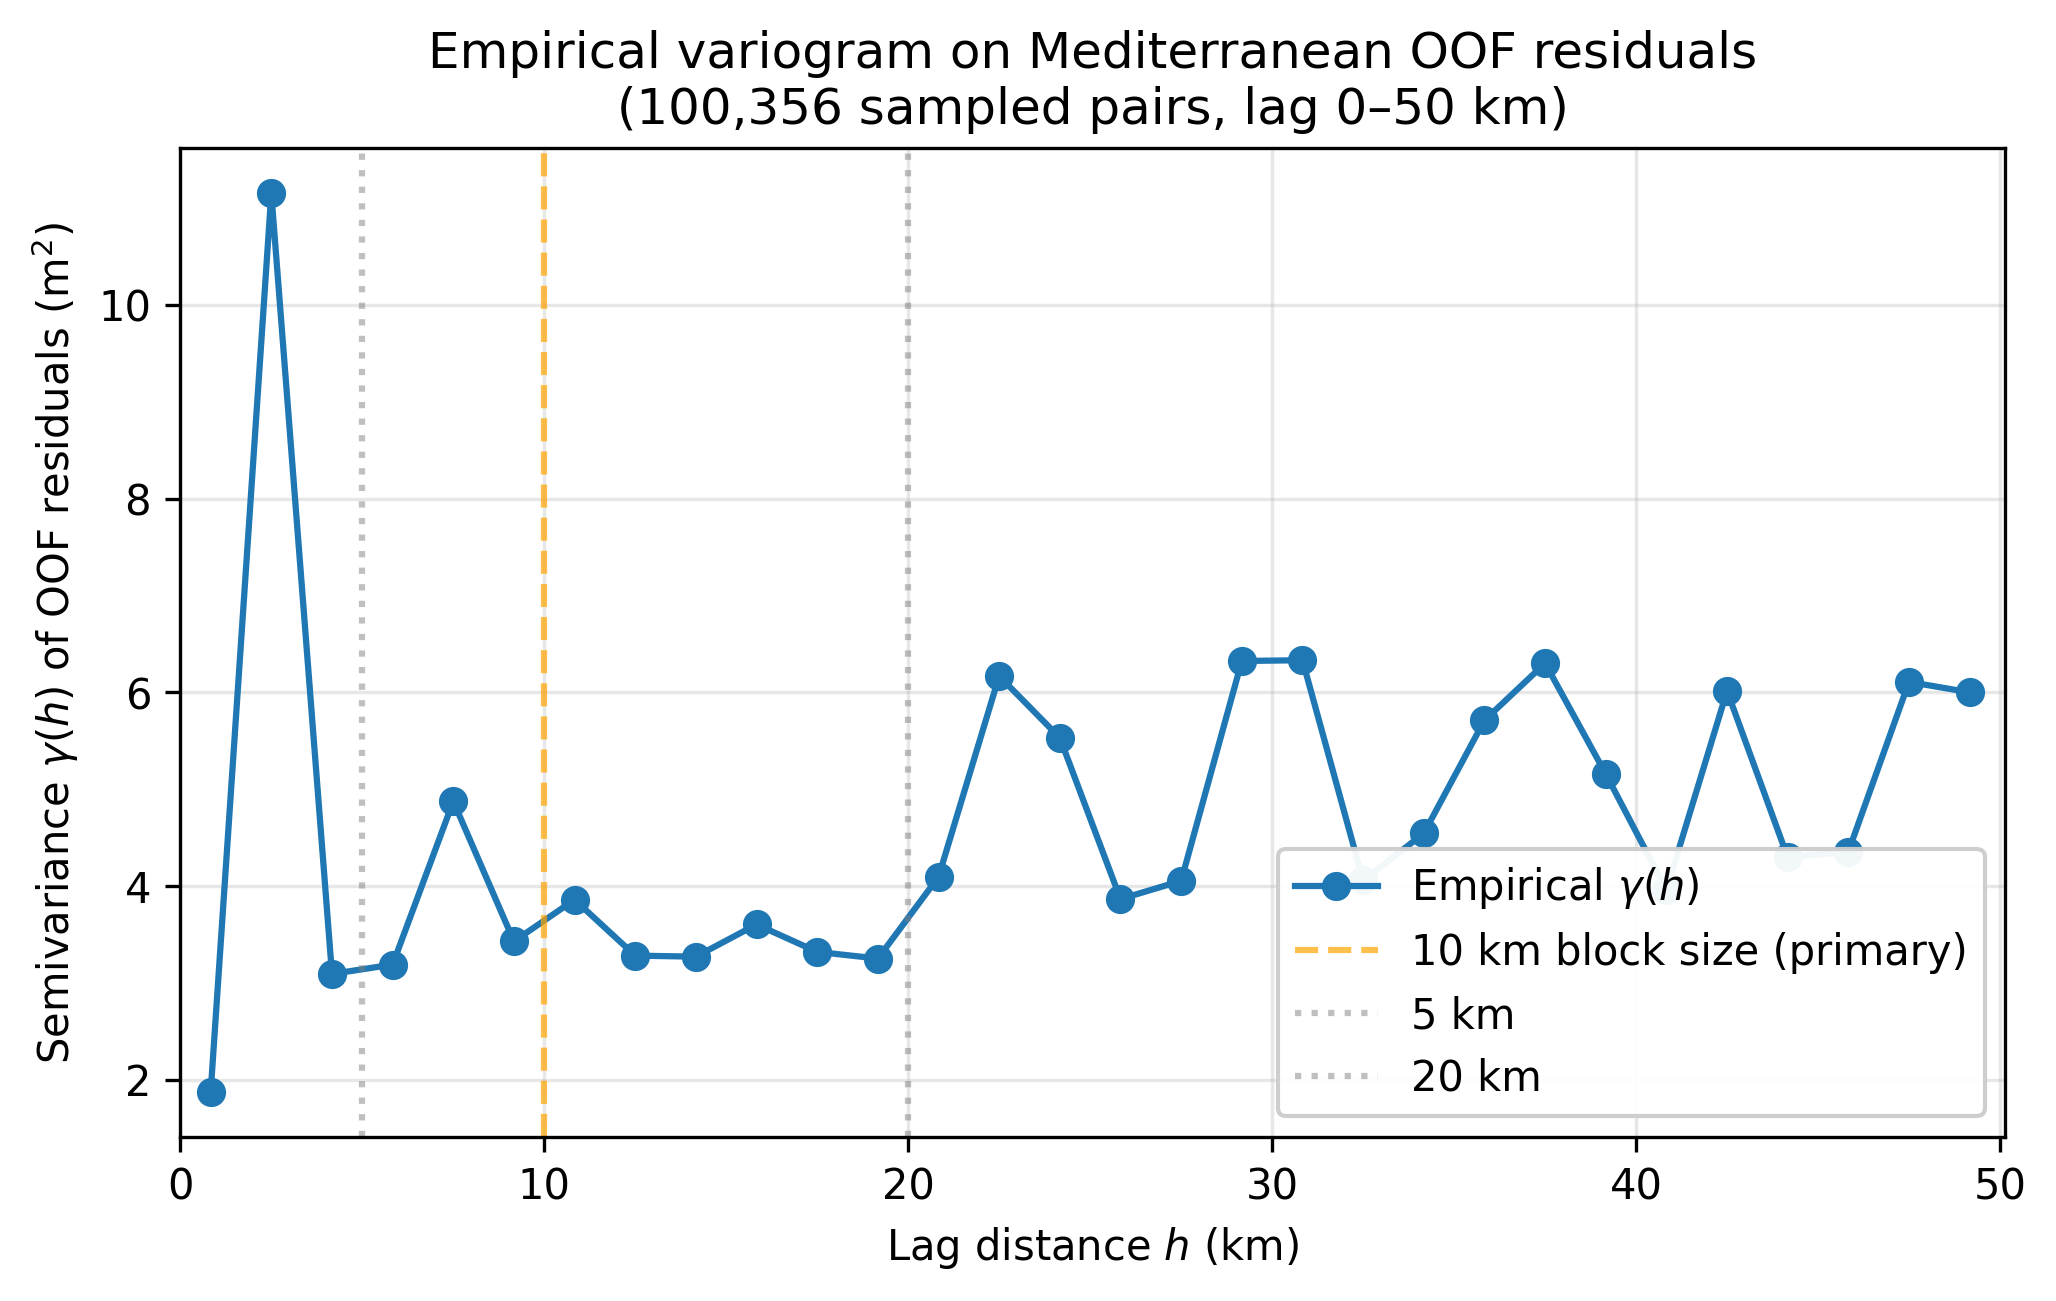
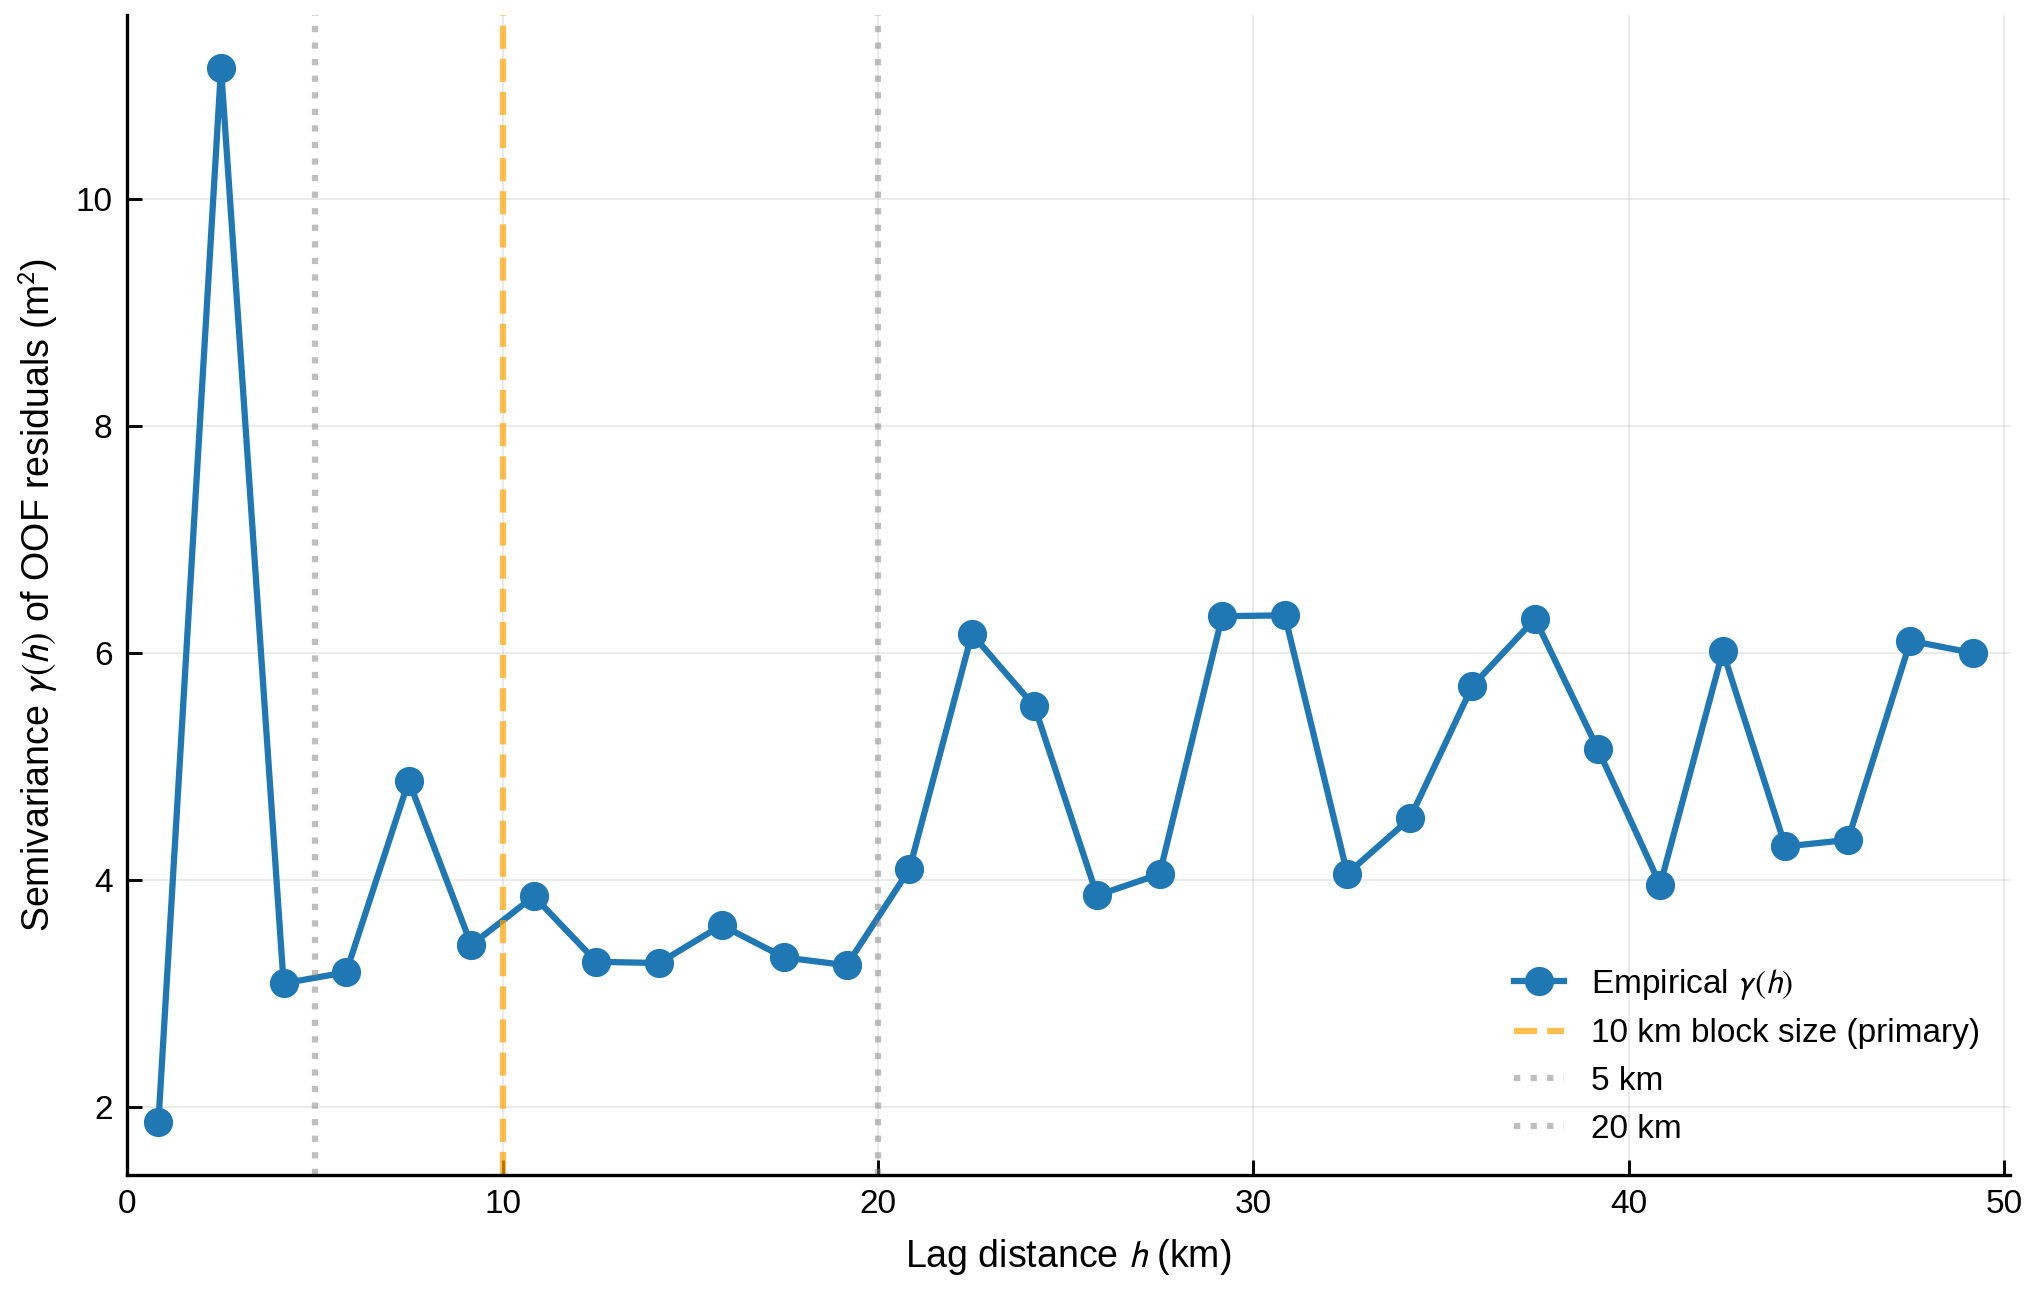
Apply style_v2 global to F1/F3/F4/F6/F7/F8/F9 (publication-grade)
Completes the figure-quality patch identified by paper-figures-py audit.

Scripts patched (import style_v2 + setup_style() + COLORS_REGIME):
- paper/generate_figures.py        → F3, F4, F5, F6, F7
- paper/generate_figures_part2.py  → F1, F8 (F2 left out — superseded by TikZ)
- paper/fix_figures.py             → F3, F8 fixes
- paper/experiments/phase_B_stats.py → F9

Cosmetic fixes applied:
- All ax.set_title() and fig.suptitle() removed (caption in LaTeX instead)
- F4 panel titles converted to bold top-left labels via ax.text
- F7 panel titles converted to "(a) Mediterranean" / "(b) Humid temperate" labels
- F8 ax_main and ax_inset get "(a)" and "(b)" panel labels
- F1 inset "South America" converted from set_title to inline text
- SHAP x-label fixed: "Mean |SHAP| value (m)" with proper mathmode

Figures regenerated with:
- Helvetica/Arial (fallback Liberation Sans), not DejaVu Sans default
- Spines bottom+left only (top+right hidden)
- Ticks `in` direction
- Grid alpha=0.3, frameon=False default
- pdf.fonttype=42 (TrueType embedded, not Type 3 bitmap)
- COLORS_REGIME dict ensures cross-figure consistency

F2 unchanged (TikZ standalone in paper/isprs/figures/F2_pipeline.tex).

Compile: 42 pp, 0 warnings.

diff --git a/paper/generate_figures.py b/paper/generate_figures.py
@@ -5,6 +5,7 @@ Produces PDF + PNG for each figure at publication-grade quality.
 Single command: run this script to (re-)generate all figures.
 """
 import json
+import sys
 from pathlib import Path
 import numpy as np
 import pandas as pd
@@ -12,21 +13,11 @@ import matplotlib.pyplot as plt
 import matplotlib.patches as mpatches
 from matplotlib.gridspec import GridSpec
 
-# Publication style
-plt.rcParams.update({
-    "font.family": "DejaVu Sans",
-    "font.size": 10,
-    "axes.titlesize": 11,
-    "axes.labelsize": 10,
-    "xtick.labelsize": 9,
-    "ytick.labelsize": 9,
-    "legend.fontsize": 9,
-    "figure.dpi": 100,
-    "savefig.dpi": 300,
-    "savefig.bbox": "tight",
-    "axes.grid": True,
-    "grid.alpha": 0.3,
-})
+# Publication style — load shared rcParams from style_v2 (Helvetica/Arial,
+# spines bottom+left only, ticks `in`, frameon=False, pdf.fonttype=42, etc.)
+sys.path.insert(0, str(Path(__file__).resolve().parent / "figures"))
+from style_v2 import setup_style, COLORS_REGIME, COLOR_RAW, COLOR_CORR
+setup_style()
 
 ROOT = Path("/home/franciscoparrao/proyectos/super-resolution-dem")
 P1 = ROOT / "scale_p1"
@@ -35,10 +26,8 @@ P2V = ROOT / "p2_validation"
 FIG = ROOT / "paper" / "figures"
 FIG.mkdir(parents=True, exist_ok=True)
 
-COLOR_MD = "#D7642E"   # Mediterranean: warm orange
-COLOR_HT = "#2E8B8B"   # Humid temperate: teal
-COLOR_RAW = "#888888"  # baseline: gray
-COLOR_CORR = "#1F77B4" # corrected: blue
+COLOR_MD = COLORS_REGIME["mediterranean"]
+COLOR_HT = COLORS_REGIME["humid_temperate"]
 
 
 def savefig(fig, name):
@@ -82,7 +71,7 @@ def fig_per_tile():
     ax.set_xticks(x)
     ax.set_xticklabels(agg.tile, rotation=30, ha="right")
     ax.set_ylabel("RMSE (m)")
-    ax.set_title("Per-tile RMSE: FABDEM raw vs ML-corrected — 10 tiles, 2 climate regimes")
+    # Title removed — caption in LaTeX
     ax.legend(loc="upper left")
     ax.set_ylim(0, agg.rmse_raw.max() * 1.2)
     # Regime annotation
@@ -134,9 +123,11 @@ def fig_stratification():
         ax.set_xticks(x)
         ax.set_xticklabels(df.index, rotation=30, ha="right", fontsize=8)
         ax.set_ylabel("RMSE improvement (%)")
-        ax.set_title(title)
+        # Panel label (top-left bold sans-serif, distinct from caption)
+        ax.text(0.02, 0.96, title, transform=ax.transAxes,
+                fontweight="bold", fontsize=9, va="top")
         if title.startswith("NDVI"):
-            ax.legend(loc="upper left")
+            ax.legend(loc="upper left", fontsize=7)
         # Annotate sample sizes
         for i, (idx, row) in enumerate(df.iterrows()):
             try:
@@ -144,8 +135,7 @@ def fig_stratification():
             except KeyError:
                 n_text = ""
             ax.text(i, ax.get_ylim()[0] + 1, n_text, ha="center", fontsize=6, color="gray")
-    fig.suptitle("RMSE improvement by stratum, in-sample (Mediterranean) vs out-of-distribution (Humid temperate)",
-                  fontsize=11, fontweight="bold", y=1.00)
+    # Suptitle removed — caption in LaTeX
     fig.tight_layout()
     savefig(fig, "F4_stratification_4panel")
 
@@ -202,9 +192,9 @@ def fig_shap_comparison():
     ax.barh(y + w/2, df.shap_humid_temperate, w, label="Humid temperate (OOD)", color=COLOR_HT, edgecolor="black", linewidth=0.4)
     ax.set_yticks(y)
     ax.set_yticklabels(df.feature)
-    ax.set_xlabel("Mean |SHAP value|")
-    ax.set_title("Feature importance shift: same model, two climate regimes\n(top 15 by humid temperate importance)")
-    ax.legend(loc="lower right")
+    ax.set_xlabel(r"Mean $|\mathrm{SHAP}|$ value (m)")
+    # Title removed — caption in LaTeX
+    ax.legend(loc="lower right", fontsize=8)
     # Annotate rank changes
     for i, (_, r) in enumerate(df.iterrows()):
         shift = int(r.rank_shift)
@@ -244,13 +234,15 @@ def fig_bias_histogram():
         ax.axvline(0, color="black", linewidth=0.6)
         ax.axvline(m_raw, color="dimgray", linewidth=1, linestyle="--", alpha=0.7)
         ax.axvline(m_corr, color=color, linewidth=1, linestyle="--", alpha=0.9)
-        title = ("Mediterranean" if regime == "mediterranean" else "Humid temperate (OOD)") + f" (n={n:,})"
-        ax.set_title(title)
-        ax.set_xlabel("FABDEM error (FABDEM − ICESat-2 orthometric) [m]")
-        ax.legend(loc="upper right", fontsize=8)
+        panel_label = ("(a) Mediterranean" if regime == "mediterranean"
+                       else "(b) Humid temperate (OOD)") + f" — n={n:,}"
+        ax.text(0.02, 0.96, panel_label, transform=ax.transAxes,
+                fontweight="bold", fontsize=9, va="top")
+        ax.set_xlabel("FABDEM error (FABDEM − ICESat-2 orthometric) (m)")
+        ax.legend(loc="upper right", fontsize=7)
         ax.set_xlim(-12, 12)
     axes[0].set_ylabel("Density")
-    fig.suptitle("Error distribution before and after ML correction, by regime", fontweight="bold")
+    # Suptitle removed — caption in LaTeX
     fig.tight_layout()
     savefig(fig, "F7_bias_histogram")
 

diff --git a/paper/generate_figures_part2.py b/paper/generate_figures_part2.py
@@ -1,6 +1,7 @@
 #!/usr/bin/env python3
 """Generate F1, F2, F8 — completing the 8 flagship figures."""
 import json
+import sys
 from pathlib import Path
 import numpy as np
 import pandas as pd
@@ -9,18 +10,9 @@ import matplotlib.patches as mpatches
 from matplotlib.patches import FancyBboxPatch, FancyArrowPatch, Rectangle
 from matplotlib.gridspec import GridSpec
 
-plt.rcParams.update({
-    "font.family": "DejaVu Sans",
-    "font.size": 10,
-    "axes.titlesize": 11,
-    "axes.labelsize": 10,
-    "xtick.labelsize": 9,
-    "ytick.labelsize": 9,
-    "legend.fontsize": 9,
-    "figure.dpi": 100,
-    "savefig.dpi": 300,
-    "savefig.bbox": "tight",
-})
+sys.path.insert(0, str(Path(__file__).resolve().parent / "figures"))
+from style_v2 import setup_style, COLORS_REGIME, COLOR_RAW, COLOR_CORR
+setup_style()
 
 ROOT = Path("/home/franciscoparrao/proyectos/super-resolution-dem")
 P1 = ROOT / "scale_p1"
@@ -29,10 +21,8 @@ INFER = P1 / "inference"
 FIG = ROOT / "paper" / "figures"
 FIG.mkdir(parents=True, exist_ok=True)
 
-COLOR_MD = "#D7642E"
-COLOR_HT = "#2E8B8B"
-COLOR_RAW = "#888888"
-COLOR_CORR = "#1F77B4"
+COLOR_MD = COLORS_REGIME["mediterranean"]
+COLOR_HT = COLORS_REGIME["humid_temperate"]
 
 # Tile inventory (name, bbox W,S,E,N, regime)
 TILES = [
@@ -135,8 +125,7 @@ def fig_study_area():
     # Grid and labels
     ax.set_xlabel("Longitude (°)")
     ax.set_ylabel("Latitude (°)")
-    ax.set_title("Study area: 10 FABDEM tiles, 2 climate regimes (central-south Chile)",
-                  fontsize=11, fontweight="bold")
+    # Title removed — caption in LaTeX
     ax.grid(True, alpha=0.3, linestyle=":")
 
     # North arrow + scale (rough)
@@ -163,7 +152,9 @@ def fig_study_area():
     ax_inset.set_ylim(-56, 14)
     ax_inset.set_aspect("equal")
     ax_inset.set_xticks([]); ax_inset.set_yticks([])
-    ax_inset.set_title("South America", fontsize=9)
+    # Inset label as inline text (not set_title)
+    ax_inset.text(0.5, 1.02, "South America", transform=ax_inset.transAxes,
+                  ha="center", va="bottom", fontsize=8, fontweight="bold")
 
     savefig(fig, "F1_study_area")
 
@@ -342,8 +333,8 @@ def fig_residual_map():
 
 
 if __name__ == "__main__":
-    print(f"Generating F1, F2, F8 into {FIG}")
-    fig_pipeline_flowchart()  # cheapest, do first
+    print(f"Generating F1, F8 into {FIG}  (F2 superseded by TikZ standalone)")
+    # fig_pipeline_flowchart()  # F2 replaced by isprs/figures/F2_pipeline.tex (TikZ)
     fig_study_area()
     fig_residual_map()
     print(f"\n✅ Done. Total figures in {FIG}:")

diff --git a/paper/fix_figures.py b/paper/fix_figures.py
@@ -1,6 +1,7 @@
 #!/usr/bin/env python3
 """Fix F3, F5, F8 — apply issues found in H5 review."""
 import json
+import sys
 from pathlib import Path
 import numpy as np
 import pandas as pd
@@ -8,13 +9,9 @@ import matplotlib.pyplot as plt
 from matplotlib.patches import Rectangle
 from matplotlib.gridspec import GridSpec
 
-plt.rcParams.update({
-    "font.family": "DejaVu Sans", "font.size": 10,
-    "axes.titlesize": 11, "axes.labelsize": 10,
-    "xtick.labelsize": 9, "ytick.labelsize": 9, "legend.fontsize": 9,
-    "figure.dpi": 100, "savefig.dpi": 300, "savefig.bbox": "tight",
-    "axes.grid": True, "grid.alpha": 0.3,
-})
+sys.path.insert(0, str(Path(__file__).resolve().parent / "figures"))
+from style_v2 import setup_style, COLORS_REGIME, COLOR_RAW
+setup_style()
 
 ROOT = Path("/home/franciscoparrao/proyectos/super-resolution-dem")
 P1 = ROOT / "scale_p1"
@@ -22,7 +19,8 @@ P3A = ROOT / "scale_p3a"
 INFER = P1 / "inference"
 FIG = ROOT / "paper" / "figures"
 
-COLOR_MD, COLOR_HT, COLOR_RAW = "#D7642E", "#2E8B8B", "#888888"
+COLOR_MD = COLORS_REGIME["mediterranean"]
+COLOR_HT = COLORS_REGIME["humid_temperate"]
 CITIES = [
     ("Curicó",     -71.24, -34.98),
     ("Talca",      -71.66, -35.43),
@@ -71,7 +69,7 @@ def fix_f3():
     ax.set_xticks(x)
     ax.set_xticklabels(agg.tile, rotation=30, ha="right")
     ax.set_ylabel("RMSE (m)")
-    ax.set_title("Per-tile RMSE: FABDEM raw vs ML-corrected — 10 tiles, 2 climate regimes")
+    # Title removed — caption in LaTeX
     ax.legend(loc="upper right")
     ax.set_ylim(-0.8, agg.rmse_raw.max() * 1.22)
 
@@ -140,7 +138,7 @@ def fix_f5():
 
     ax.set_xlabel("FABDEM raw RMSE (m)")
     ax.set_ylabel("RMSE improvement from ML correction (%)")
-    ax.set_title("Per-tile improvement vs baseline RMSE\n(marker area ∝ √n footprints)")
+    # Title removed — caption in LaTeX
     ax.legend(loc="lower right")
     ax.axhline(0, color="black", linewidth=0.5)
     ax.set_xlim(1.8, 7.6)
@@ -209,9 +207,10 @@ def fix_f8():
 
     ax_main.set_xlabel("Longitude (°)")
     ax_main.set_ylabel("Latitude (°)")
-    ax_main.set_title("Spatial pattern of predicted residual (correction layer)\n"
-                       "mm_residual.tif: ML-predicted FABDEM bias [m] over Mataquito + Maule",
-                       fontsize=10, fontweight="bold")
+    # Panel label (a) bold top-left; title removed (caption in LaTeX)
+    ax_main.text(0.02, 0.98, "(a)", transform=ax_main.transAxes,
+                 fontweight="bold", fontsize=10, va="top",
+                 bbox=dict(boxstyle="round,pad=0.2", fc="white", ec="none", alpha=0.85))
     ax_main.set_xlim(bounds.left, bounds.right)
     ax_main.set_ylim(bounds.bottom, bounds.top)
 
@@ -235,8 +234,10 @@ def fix_f8():
                       bbox=dict(boxstyle="round,pad=0.2", fc="white", ec="black", alpha=0.95))
     ax_inset.set_xlabel("Longitude (°)")
     ax_inset.set_ylabel("Latitude (°)")
-    ax_inset.set_title("Inset: Licantén area (Mataquito mouth, jun 2023 flood reference site)",
-                        fontsize=9, fontweight="bold")
+    # Panel label (b); description goes to caption
+    ax_inset.text(0.02, 0.98, "(b)", transform=ax_inset.transAxes,
+                  fontweight="bold", fontsize=10, va="top",
+                  bbox=dict(boxstyle="round,pad=0.2", fc="white", ec="none", alpha=0.85))
     cbar2 = fig.colorbar(im2, ax=ax_inset, orientation="vertical", fraction=0.04, pad=0.02)
     cbar2.set_label("residual (m)", fontsize=8)
 

diff --git a/paper/experiments/phase_B_stats.py b/paper/experiments/phase_B_stats.py
@@ -185,6 +185,14 @@ def empirical_variogram(df, n_pairs=500000, n_bins=30, max_dist_m=50000, seed=42
 
 
 def plot_variogram(variogram, out_path):
+    import sys as _sys
+    from pathlib import Path as _Path
+    _sys.path.insert(0, str(_Path(__file__).resolve().parent.parent / "figures"))
+    try:
+        from style_v2 import setup_style
+        setup_style()
+    except ImportError:
+        pass
     centres = np.array(variogram["bin_centres_m"]) / 1000  # to km
     semivar = np.array(variogram["semivariance"])
     n_bin = np.array(variogram["n_per_bin"])
@@ -196,13 +204,10 @@ def plot_variogram(variogram, out_path):
                label="10 km block size (primary)")
     ax.axvline(5, color="gray", linestyle=":", alpha=0.5, label="5 km")
     ax.axvline(20, color="gray", linestyle=":", alpha=0.5, label="20 km")
-    ax.set_xlabel("Lag distance $h$ (km)")
-    ax.set_ylabel("Semivariance $\\gamma(h)$ of OOF residuals (m$^2$)")
-    ax.set_title("Empirical variogram on Mediterranean OOF residuals\n"
-                 f"({variogram['n_pairs_used']:,} sampled pairs, "
-                 f"lag 0–{variogram['max_dist_m']/1000:.0f} km)")
-    ax.legend(loc="lower right", framealpha=0.95)
-    ax.grid(True, alpha=0.3)
+    ax.set_xlabel(r"Lag distance $h$ (km)")
+    ax.set_ylabel(r"Semivariance $\gamma(h)$ of OOF residuals (m$^2$)")
+    # Title removed — caption in LaTeX
+    ax.legend(loc="lower right", fontsize=8)
     ax.set_xlim(0, max(centres) * 1.02)
     fig.tight_layout()
 